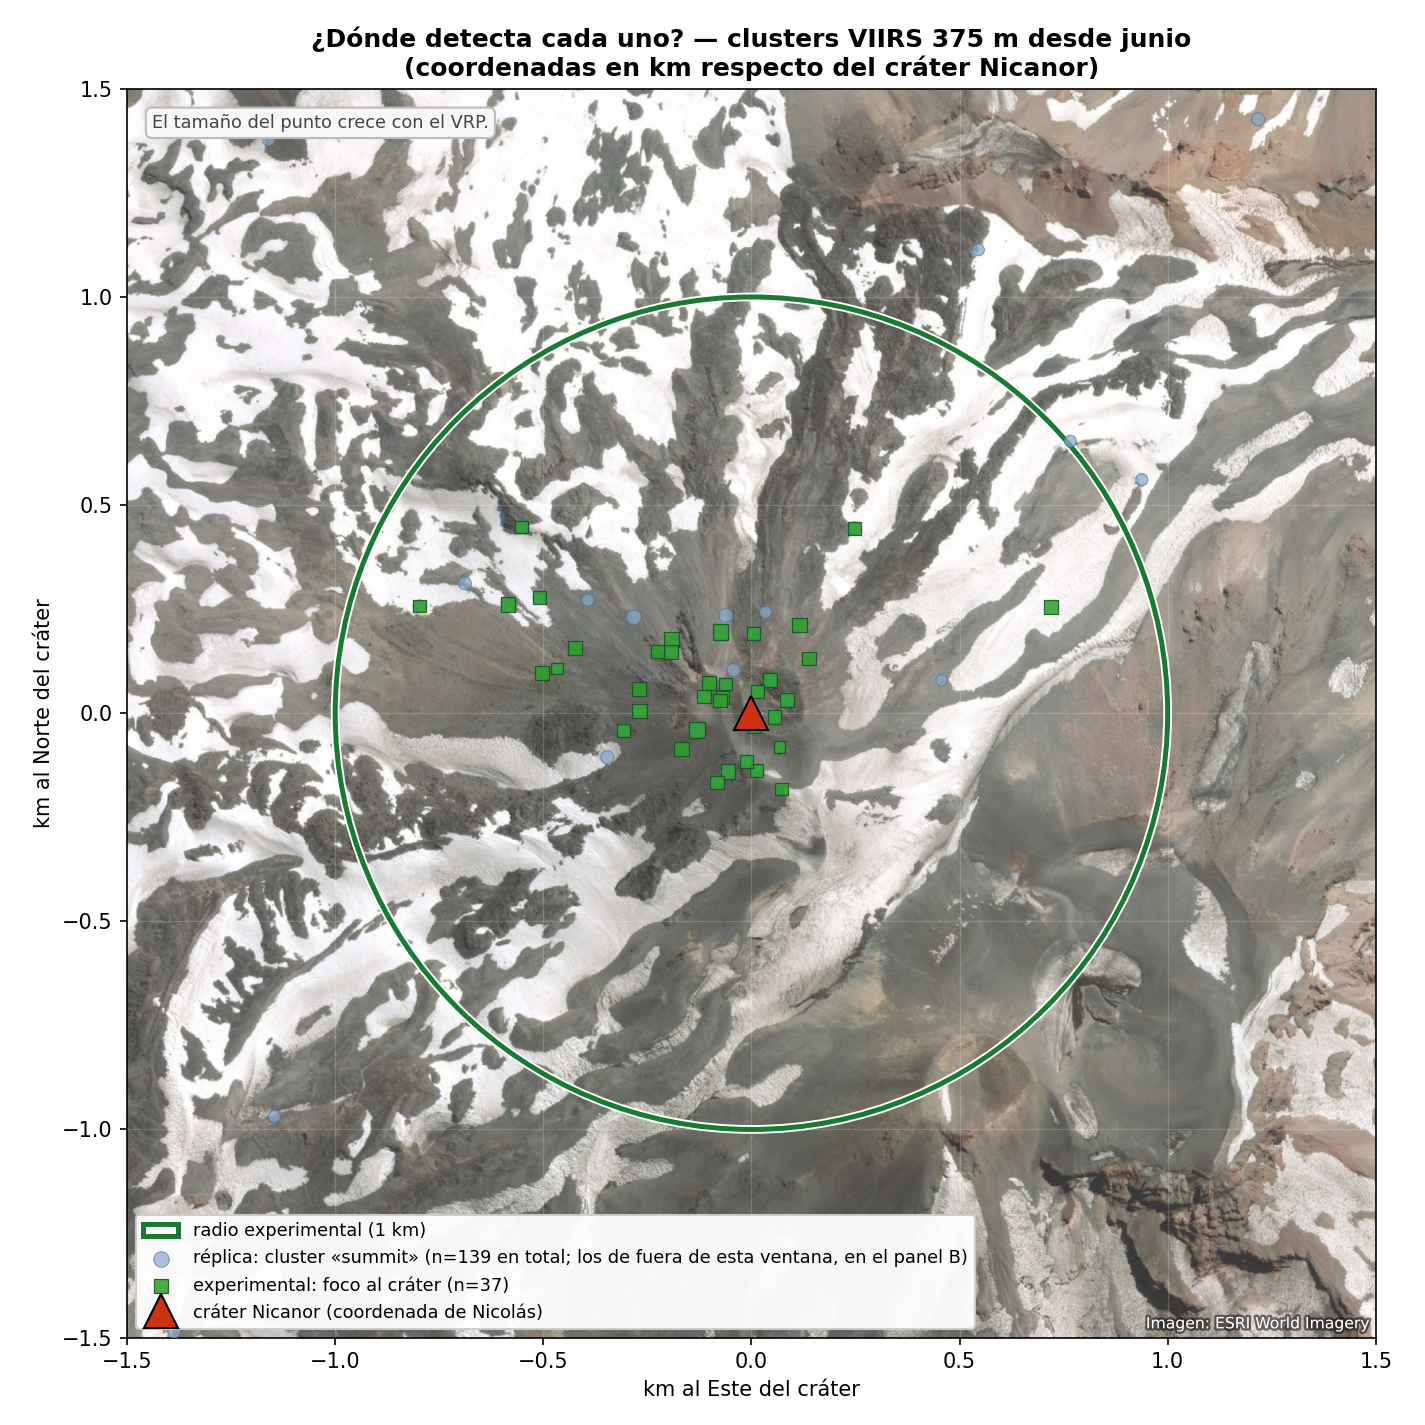
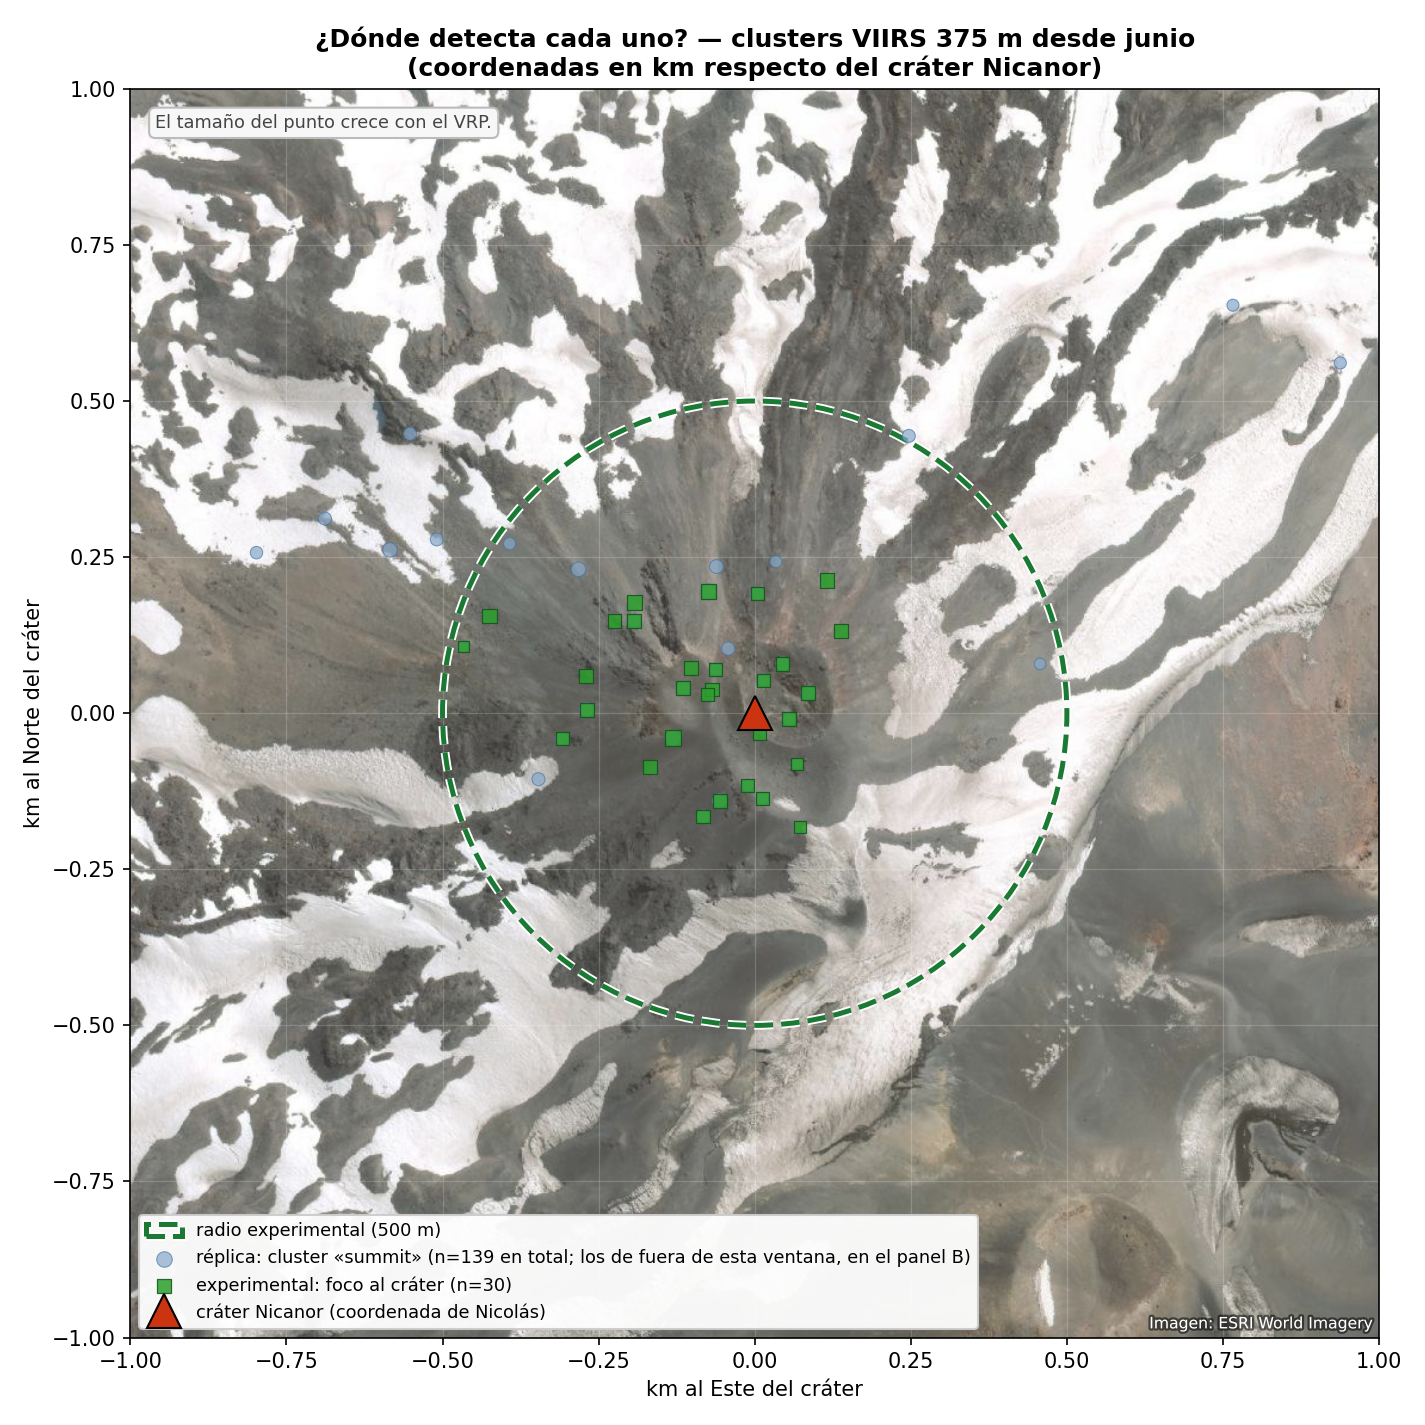
probe(s124): la mascara ciega el 23% de las pasadas pero NO cuesta el recall que predije
READ-ONLY sobre los 11 Tier A. Refuta mi propia generalizacion de hace un rato.

PARTE 1 -- el mecanismo EXISTE y es de flota: 915 de 4015 pasadas (23%) quedan
sin fondo (n_bg = 0). En esas la regla <260 K saca 57-69% del ROI; en las que si
tienen fondo, 2-55%. Factor de 1x (Lastarria y Tupungatito: la mascara es
agresiva SIEMPRE) a 28x (Chaiten). Peor caso Tupungatito, 41% de sus pasadas.

PARTE 2 -- pero NO cuesta recall: solo 6 de 276 alertas de MIROVA (2%) caen en
noches ciegas, contra una tasa base de ceguera del 23%. Es DIEZ VECES MENOR que
el azar, no mayor. Las noches que nos ciegan son, en general, noches en que
MIROVA tampoco publica. NdC (3 de 6 = 50%) es la EXCEPCION, y con n=6 es fragil.

CONSECUENCIA: retiro el cambio de recomendacion. La mascara sigue siendo un
drift documentado (D14) y sigue midiendo mal (confunde nieve con nube), pero NO
es camino critico por recall. Vuelve a ser deuda para despues de F70, que era el
orden original y el correcto.

Queda en pie como pendiente concreto: los 6 casos perdidos (3 en NdC) y el 41%
de ceguera de Tupungatito.

Ademas, radio del foco a 500 m en las dos figuras (pedido de Nicolas). Medido
antes de aplicarlo: de 1 km a 500 m cuesta 1 noche de la replica y 0 del
experimental, y las 3 alertas de MIROVA que reproducimos sobreviven las 3 -- las
detecciones estan en el crater, no desparramadas. A 375 m de pixel, 500 m son
~1,3 pixeles: el circulo mas ajustado que el sensor soporta.

diff --git a/experiments/_s124_ceguera/01_probe_11_volcanes.py b/experiments/_s124_ceguera/01_probe_11_volcanes.py
@@ -1,0 +1,185 @@
+# -*- coding: utf-8 -*-
+"""S124 — ¿La máscara de nube <260 K nos ciega, y ahí perdemos alertas de MIROVA?
+
+READ-ONLY. No toca pipeline ni datos (A45): solo lee los JSON ya persistidos y
+el consolidado de MIROVA.
+
+EL FENÓMENO
+-----------
+El pipeline marca "nube" todo píxel cuyo TIR irradie bajo 260 K (−13 °C) y lo
+saca de dos lugares (`process_viirs.py:681-682`):
+
+    roi_mask = roi_mask & cloud_free     # de donde se buscan anomalías
+    bg_mask  = bg_mask  & cloud_free     # y del anillo que fija el umbral
+
+En un volcán nevado, una noche fría de invierno tiene buena parte del ROI bajo
+esa temperatura — no porque haya nube, sino porque **es nieve**. Cuando la
+máscara se lleva el anillo entero, el pipeline se queda sin estadística de
+fondo (`n_bg = 0`) y no puede detectar nada. La noche queda ciega.
+
+MIROVA no filtra nube. Laiolo 2026, textual: *"no atmospheric correction or
+cloud-contamination automatic filtering"*. Conserva su fondo y publica.
+
+Y esa máscara es la que `MISSION.md:127` declara **"Removido S27"** (ver D14).
+
+LO QUE ESTE PROBE MIDE (sobre los 11 Tier A, no solo NdC)
+---------------------------------------------------------
+  1. Qué fracción de las pasadas queda sin fondo, por volcán.
+  2. Si la máscara es lo que las deja sin fondo (comparar cuánto enmascara en
+     las pasadas con fondo vs sin fondo).
+  3. Cuántas alertas de MIROVA caen en noches ciegas — o sea, cuánto recall nos
+     está costando.
+
+Si el patrón de NdC (3 de 3 alertas perdidas en noches ciegas) se repite en la
+flota, el caso para el A/B de la máscara está hecho.
+
+Fuente de verdad de los números del informe (regla S91).
+"""
+import collections
+import csv
+import io
+import json
+import math
+import sys
+from pathlib import Path
+
+sys.stdout = io.TextIOWrapper(sys.stdout.buffer, encoding="utf-8")
+ROOT = Path(__file__).resolve().parents[2]
+
+INI = "2026-06-01"
+PIX_ROI_I = (50.0 / 0.375) ** 2      # ROI 50x50 km en píxeles I-band nadir
+
+VOLS = ["Lascar", "Isluga", "Lastarria", "Llaima", "Copahue", "Tupungatito",
+        "NevadosDeChillan", "Villarrica", "Chaiten", "PlanchonPeteroa",
+        "PuyehueCordonCaulle"]
+
+# A14: el scraper normaliza algunos nombres — siempre verificar variantes.
+ALIAS = {
+    "NevadosDeChillan": ["Nevados de Chillan"],
+    "PlanchonPeteroa": ["PlanchonPeteroa", "Planchon-Peteroa", "Planchón-Peteroa"],
+    "PuyehueCordonCaulle": ["Puyehue-Cordon Caulle", "PuyehueCordonCaulle"],
+}
+
+
+def med(v):
+    v = sorted(x for x in v if x is not None)
+    return v[len(v) // 2] if v else float("nan")
+
+
+def pasadas_viirs375(vol):
+    """Las pasadas VIIRS I-band, que es donde vive la máscara."""
+    p = ROOT / f"data/mirova_equivalent/{vol}.json"
+    if not p.exists():
+        return []
+    d = json.loads(p.read_text(encoding="utf-8"))
+    return [r for r in d["records"]
+            if (r.get("datetime_utc") or "") >= INI
+            and "VIIRS" in (r.get("sensor") or "") and "750" not in r["sensor"]]
+
+
+def alertas_mirova():
+    """Noches con ALERTA VIIRS375 publicada, por volcán (nombre del scraper)."""
+    gt = collections.defaultdict(set)
+    with open(ROOT / "latest_consolidado.csv", encoding="utf-8", errors="replace") as fh:
+        for r in csv.DictReader(fh):
+            v = r.get("Volcan")
+            f = (r.get("Fecha_Satelite_UTC") or "")[:10]
+            if not v or f < INI:
+                continue
+            if "ALERTA" not in (r.get("Tipo_Registro") or ""):
+                continue
+            if (r.get("Sensor") or "").strip().upper() != "VIIRS375":
+                continue
+            try:
+                x = float(r.get("VRP_MW") or 0)
+            except ValueError:
+                continue
+            if x > 0:
+                gt[v].add(f)
+    return gt
+
+
+if __name__ == "__main__":
+    gt = alertas_mirova()
+
+    print("1) ¿Cuántas pasadas quedan SIN fondo, y enmascara más la regla ahí?\n")
+    print(f"{'volcán':22s} {'pasadas':>8s} {'sin fondo':>10s} "
+          f"{'<260K sin fondo':>16s} {'con fondo':>10s} {'factor':>7s}")
+    print("-" * 80)
+    total = collections.Counter()
+    for v in VOLS:
+        rs = pasadas_viirs375(v)
+        if not rs:
+            continue
+        sin = [r for r in rs if (r.get("diag_n_bg_used_first_pass") or 0) == 0]
+        con = [r for r in rs if (r.get("diag_n_bg_used_first_pass") or 0) > 0]
+        ms = med([r.get("n_cloud_masked") for r in sin])
+        mc = med([r.get("n_cloud_masked") for r in con])
+        fac = (ms / mc) if (mc and mc > 0 and ms == ms) else float("nan")
+        total["pasadas"] += len(rs)
+        total["sin"] += len(sin)
+        print(f"{v:22s} {len(rs):8d} {len(sin):6d} ({100*len(sin)/len(rs):3.0f}%) "
+              f"{100*ms/PIX_ROI_I if ms == ms else float('nan'):14.0f}% "
+              f"{100*mc/PIX_ROI_I if mc == mc else float('nan'):9.0f}% {fac:6.0f}x")
+    print(f"\n   TOTAL: {total['sin']} de {total['pasadas']} pasadas sin fondo "
+          f"({100*total['sin']/total['pasadas']:.0f}%)")
+
+    print("\n\n2) ¿Cuánto recall nos cuesta? Alertas de MIROVA en noches ciegas\n")
+    print(f"{'volcán':22s} {'alertas':>8s} {'en noche ciega':>15s} {'%':>6s}")
+    print("-" * 56)
+    ta = tc = 0
+    for v in VOLS:
+        rs = pasadas_viirs375(v)
+        if not rs:
+            continue
+        ciego = {}
+        for r in rs:
+            f = r["datetime_utc"][:10]
+            ok = (r.get("diag_n_bg_used_first_pass") or 0) > 0
+            ciego[f] = ciego.get(f, True) and not ok
+        noches = set()
+        for nom in ALIAS.get(v, [v]):
+            noches |= gt.get(nom, set())
+        # solo las noches que además tuvieron pasada nuestra
+        noches = {f for f in noches if f in ciego}
+        if not noches:
+            continue
+        cieg = sum(1 for f in noches if ciego[f])
+        ta += len(noches)
+        tc += cieg
+        print(f"{v:22s} {len(noches):8d} {cieg:15d} {100*cieg/len(noches):5.0f}%")
+    if ta:
+        print(f"\n   TOTAL: {tc} de {ta} alertas de MIROVA cayeron en noches en que")
+        print(f"   no pudimos establecer fondo ({100*tc/ta:.0f}%).")
+        print("\n   Comparar contra la tasa base de noches ciegas de arriba: si el")
+        print("   porcentaje de alertas-en-noche-ciega es MAYOR que la tasa base,")
+        print("   la máscara nos está costando recall de forma sistemática.")
+
+# ─────────────────────────────────────────────────────────────────────────────
+# RESULTADO (corrida del 2026-08-27, ventana desde 2026-06-01)
+# ─────────────────────────────────────────────────────────────────────────────
+#
+# PARTE 1 — el mecanismo EXISTE y es de flota, no de un volcán:
+#   915 de 4015 pasadas (23 %) quedan sin fondo. En esas, la regla <260 K saca
+#   57-69 % del ROI; en las que sí tienen fondo, 2-55 %. El factor va de 1x
+#   (Lastarria, Tupungatito: la máscara es agresiva SIEMPRE) hasta 28x (Chaitén).
+#   Peor caso: Tupungatito, 41 % de sus pasadas sin fondo.
+#
+# PARTE 2 — pero NO cuesta el recall que yo predije. REFUTA la generalización:
+#   solo 6 de 276 alertas de MIROVA (2 %) caen en noches ciegas, contra una tasa
+#   base de ceguera del 23 %. Es DIEZ VECES MENOR que el azar, no mayor.
+#
+#   Lectura física: las noches que nos ciegan son, en general, noches en que
+#   MIROVA tampoco publica — o porque tampoco ve, o porque no hay anomalía.
+#   NdC (3 de 6 = 50 %) es la EXCEPCIÓN, y con n=6 esa fracción es frágil.
+#
+# QUÉ SIGNIFICA PARA LA DECISIÓN
+#   La máscara sigue siendo un drift documentado (D14: MISSION.md la declara
+#   removida y está activa) y sigue midiendo la cosa equivocada (confunde nieve
+#   con nube). Eso no cambió. Lo que se cae es el argumento de que sea CAMINO
+#   CRÍTICO por recall: no lo es. Vuelve a ser deuda a pagar después de F70,
+#   que era el orden original.
+#
+#   Lo que sí queda en pie como pendiente concreto: los 6 casos perdidos (3 de
+#   ellos en NdC, el volcán que Nicolás está mirando) y el 41 % de ceguera de
+#   Tupungatito, que merece su propia mirada.

diff --git a/experiments/_s124_ndc_focus/plot_simple.py b/experiments/_s124_ndc_focus/plot_simple.py
@@ -34,6 +34,13 @@ sys.stdout = io.TextIOWrapper(sys.stdout.buffer, encoding="utf-8")
 
 ROOT = Path(__file__).resolve().parents[2]
 NIC = (-36.867210, -71.378241)
+# Radio del foco: 500 m (pedido de Nicolás, S124). A 375 m de píxel VIIRS I,
+# 500 m son ~1,3 píxeles: es el círculo más ajustado que el sensor soporta sin
+# volverse un solo píxel. Medido antes de aplicarlo: bajar de 1 km a 500 m
+# cuesta 1 noche de la réplica y 0 del experimental, y las 3 alertas de MIROVA
+# que reproducimos sobreviven las 3 — las detecciones están en el cráter, no
+# desparramadas.
+FOCO_KM = 0.5
 START = "2026-06-01"
 FOCO_JSON = Path(sys.argv[1]) if len(sys.argv) > 1 else ROOT / "data/experimental_ndc_focus/NevadosDeChillan.json"
 
@@ -83,7 +90,7 @@ for r in d["records"]:
     # que es la variable del experimento.
     if pc.get("centroid_lat") is None:
         continue
-    if hav(NIC[0], NIC[1], pc["centroid_lat"], pc["centroid_lon"]) > 1.0:
+    if hav(NIC[0], NIC[1], pc["centroid_lat"], pc["centroid_lon"]) > FOCO_KM:
         continue
     replica[f] = max(replica.get(f, 0), v)
 
@@ -140,7 +147,7 @@ for r in d["records"]:
     v = pc.get("vrp_mw") or 0
     if v <= 0 or pc.get("centroid_lat") is None:
         continue
-    if hav(NIC[0], NIC[1], pc["centroid_lat"], pc["centroid_lon"]) <= 1.0:
+    if hav(NIC[0], NIC[1], pc["centroid_lat"], pc["centroid_lon"]) <= FOCO_KM:
         foco[f] = max(foco.get(f, 0), v)
 
 ventana_foco = (min(d["records"][0]["datetime_utc"][:10], START),
@@ -214,7 +221,7 @@ for f in sorted(foco):
         fx.append(prev); fy.append(float("nan"))
     fx.append(d_); fy.append(foco[f]); prev = d_
 axB.plot(fx, fy, "s-", ms=6, lw=1.4,
-         color=C_FOC, label="Experimental: radio 1 km al cráter + umbral 0.005 MW")
+         color=C_FOC, label="Experimental: radio 500 m al cráter + umbral 0.005 MW")
 xs = dts(mirova)
 axB.plot(xs, [mirova[x.strftime("%Y-%m-%d")] for x in xs], "*", ms=17, color=C_MIR,
          mec="k", mew=0.6, ls="none", zorder=5, label="MIROVA (las veces que publicó alerta)")
@@ -239,7 +246,7 @@ axB.xaxis.set_major_formatter(mdates.DateFormatter("%d-%b"))
 plt.setp(axB.get_xticklabels(), rotation=0, fontsize=8.5)
 
 nota = ("Cómo leerla: cada estrella roja es una noche en que MIROVA publicó alerta térmica; los cuadrados verdes son el foco del cráter\n"
-        "Nicanor visto por el perfil experimental (área acotada a 1 km + umbral bajo el mínimo de MIROVA); los puntos celestes, la réplica\n"
+        "Nicanor visto por el perfil experimental (área acotada a 500 m + umbral bajo el mínimo de MIROVA); los puntos celestes, la réplica\n"
         "operacional. Se muestra solo VIIRS 375 m: todas las alertas MIROVA de este período son de ese sensor.")
 if ventana_foco and ventana_foco[1] >= "2026-06-25" and min(foco, default="9999") >= "2026-06-25":
     nota += "\nEl experimental aún no cubre el 01–24 de junio (reproceso en curso); esa franja solo muestra réplica y MIROVA."

diff --git a/experiments/_s124_ndc_focus/plot_mapa.py b/experiments/_s124_ndc_focus/plot_mapa.py
@@ -24,6 +24,14 @@ from basemap import satelital_km, ATRIBUCION
 sys.stdout = io.TextIOWrapper(sys.stdout.buffer, encoding="utf-8")
 ROOT = Path(__file__).resolve().parents[2]
 NIC = (-36.867210, -71.378241)
+# Radio del foco: 500 m (pedido de Nicolás, S124). A 375 m de píxel VIIRS I,
+# 500 m son ~1,3 píxeles: es el círculo más ajustado que el sensor soporta sin
+# volverse un solo píxel. Medido antes de aplicarlo: bajar de 1 km a 500 m
+# cuesta 1 noche de la réplica y 0 del experimental, y las 3 alertas de MIROVA
+# que reproducimos sobreviven las 3 — las detecciones están en el cráter, no
+# desparramadas.
+FOCO_KM = 0.5
+
 FOCO_JSON = Path(sys.argv[1]) if len(sys.argv) > 1 else ROOT / "data/experimental_ndc_focus/NevadosDeChillan.json"
 
 def hav(la1, lo1, la2, lo2):
@@ -54,7 +62,7 @@ dd = json.loads(FOCO_JSON.read_text(encoding="utf-8"))
 for r in dd["records"]:
     pc = r.get("primary_cluster") or {}
     v = pc.get("vrp_mw") or 0
-    if v > 0 and pc.get("centroid_lat") is not None and hav(NIC[0], NIC[1], pc["centroid_lat"], pc["centroid_lon"]) <= 1.0:
+    if v > 0 and pc.get("centroid_lat") is not None and hav(NIC[0], NIC[1], pc["centroid_lat"], pc["centroid_lon"]) <= FOCO_KM:
         foc.append((pc["centroid_lat"], pc["centroid_lon"], v))
 
 fig, ax = plt.subplots(figsize=(9.5, 9.5))
@@ -63,7 +71,7 @@ ax.set_title("¿Dónde detecta cada uno? — clusters VIIRS 375 m desde junio\n"
 
 # Fondo satelital: sin él no se puede juzgar si una anomalía cae sobre el
 # cráter, sobre el glaciar o sobre el valle. zorder bajo = debajo de todo.
-LIM = 1.5          # pedido de Nicolás: mostrar solo el entorno del cráter
+LIM = 1.0          # pedido de Nicolás: mostrar solo el entorno del cráter
 _img, _ext = satelital_km(NIC[0], NIC[1], LIM, zoom=16)   # más zoom: la ventana es chica
 if _img is not None:
     ax.imshow(_img, extent=_ext, origin="upper", zorder=0, interpolation="bilinear")
@@ -73,7 +81,7 @@ if _img is not None:
                                fc="white", alpha=0.22, zorder=1, ec="none"))
 
 # circulos de referencia
-for rkm, col, lab in ((1.0, "#1a7a33", "radio experimental (1 km)"),):
+for rkm, col, lab in ((FOCO_KM, "#1a7a33", f"radio experimental ({FOCO_KM*1000:.0f} m)"),):
     c = plt.Circle((0, 0), rkm, fill=False, color=col, lw=2.4,
                    ls="-" if rkm == 1 else "--", label=lab, zorder=2,
                    path_effects=[pe.withStroke(linewidth=4.2, foreground="white")])
